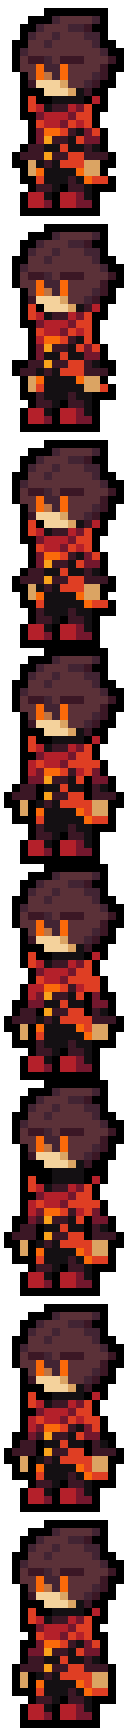
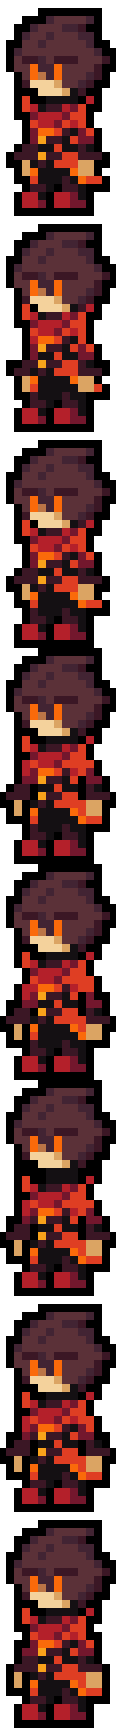
menu: animated hero fix

diff --git a/itemChanger.py b/itemChanger.py
@@ -14,13 +14,13 @@ def heroOnScreenChanger(hero, title, hero_field):
     if hero == 1:
         spriteGroups.animatedHero.empty()
         heroWai = AnimatedHero(load_image(r"objects\animated\hero-wai-obj.png"), 1, 8,
-                               hero_field.x + hero_field.width // 2 - 134 // 2,
+                               hero_field.x + hero_field.width // 2 - 116 // 2,
                                title.y + 188)
         current_hero = heroWai
     elif hero == 2:
         spriteGroups.animatedHero.empty()
         heroTheStrongest = AnimatedHero(load_image(r"objects\animated\hero-the-strongest-obj.png"), 1, 8,
-                                        hero_field.x + hero_field.width // 2 - 128 // 2 - 2,
+                                        hero_field.x + hero_field.width // 2 - 104 // 2,
                                         title.y + 188)
         current_hero = heroTheStrongest
     return current_hero
